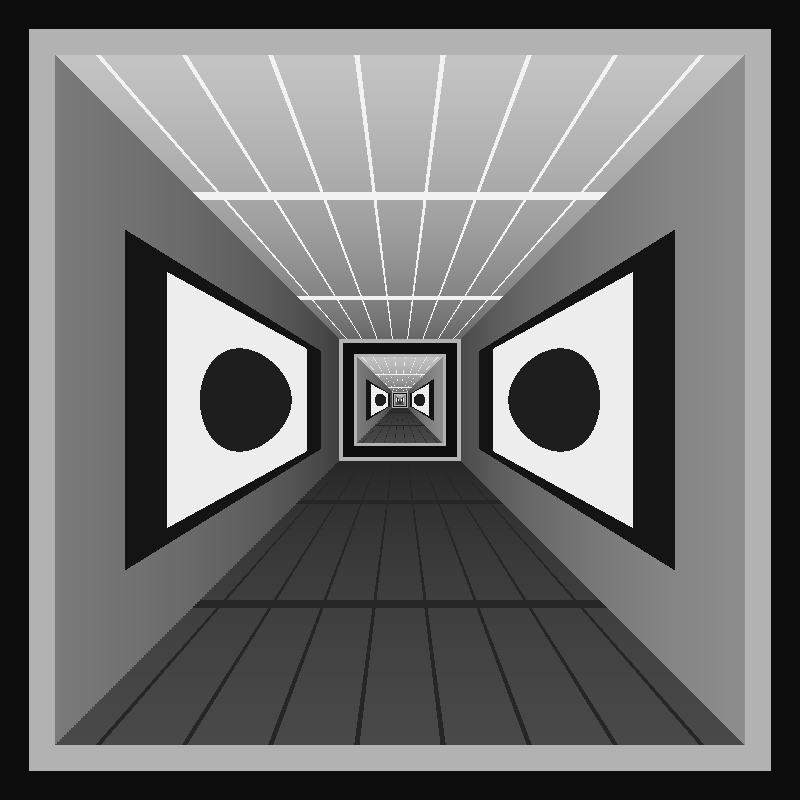
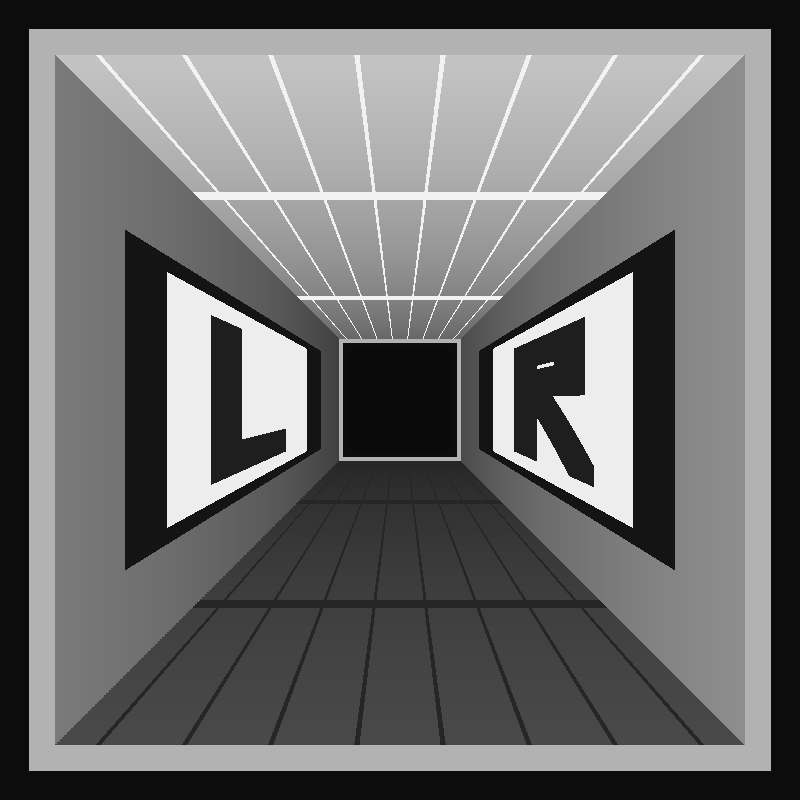
Starter image: L/R letters on walls, blank (black) recursion center
Replace the wall circles with big "L" (left) and "R" (right) letters. Leave the
self-similarity rectangle (rho < 1/q) blank/black instead of drawing nested
copies, demonstrating that the renderer synthesizes the recursion by folding the
outer ring -- the source need not be pre-drosted, only self-similar at the ring
border.

Changed region(s): [[0.25, 0.375, 0.375, 0.625], [0.625, 0.4062, 0.75, 0.625], [0.4375, 0.4375, 0.5625, 0.5625]]

diff --git a/make_selfsimilar.py b/make_selfsimilar.py
@@ -52,20 +52,31 @@ seam_u = (((u) % (1/3)) < 0.02)
 img[floor & (tile_s | seam_u)] = 0.95
 img[ceil  & (tile_s | seam_u)] = 0.15
 
-# ---- framed pictures on the side walls ----
-def wall_pictures(mask):
+# ---- framed pictures on the side walls, each with a big "L" / "R" letter ----
+def letter_mask(L, X, Y):                 # X right, Y up; strokes ~0.4 thick
+    vbar = (X > -0.55) & (X < -0.15) & (Y > -0.9) & (Y < 0.9)
+    if L == 'L':
+        hbar = (Y > -0.9) & (Y < -0.5) & (X > -0.55) & (X < 0.55)
+        return vbar | hbar
+    top = (Y > 0.5) & (Y < 0.9) & (X > -0.55) & (X < 0.4)         # R: bowl top
+    rsd = (X > 0.1) & (X < 0.5) & (Y > 0.05) & (Y < 0.9)          #    bowl side
+    mid = (Y > 0.05) & (Y < 0.45) & (X > -0.55) & (X < 0.5)       #    bowl bottom
+    leg = (np.abs((Y - 0.05) + 1.4 * (X + 0.15)) < 0.32) \
+          & (X > -0.2) & (X < 0.6) & (Y > -0.9) & (Y < 0.1)       #    diagonal leg
+    return vbar | top | rsd | mid | leg
+
+def wall_pictures(mask, L, xdir):
     inb = mask & (np.abs(s) < 0.62) & (u > 0.22) & (u < 0.82)
     frame = inb & ((np.abs(s) > 0.55) | (u < 0.30) | (u > 0.74))
     mat   = inb & ~frame
     img[mat] = 0.93
     img[frame] = 0.08
-    # a simple silhouette inside the mat (a filled circle "artwork")
-    cs = s / 0.5
-    cu = (u - 0.52) / 0.22
-    art = mat & ((cs*cs + cu*cu) < 0.45)
-    img[art] = 0.12
-wall_pictures(left)
-wall_pictures(right)
+    # letter coords: depth (u) is the picture's horizontal, screen (s) its vertical
+    LX = xdir * (u - 0.52) / 0.22
+    LY = -s / 0.5
+    img[mat & letter_mask(L, LX, LY)] = 0.12
+wall_pictures(left,  'L', -1)
+wall_pictures(right, 'R', +1)
 
 # ---- nested archway: a thick dark frame at each segment boundary ----
 arch = (u < 0.06) | (u > 0.965)
@@ -73,6 +84,12 @@ img[arch] = 0.05
 # a lighter inner lip just inside the arch for a 3-D molding feel
 lip = ((u >= 0.06) & (u < 0.10)) | ((u <= 0.965) & (u > 0.93))
 img[lip] = 0.70
+
+# ---- the recursion center is left BLANK on purpose ----
+# Everything inside the self-similarity rectangle (rho < 1/q) is never sampled by
+# the renderer: it folds the outer ring inward to synthesize the recursion. So we
+# just paint it black here to show the source does NOT need to be pre-drosted.
+img[rho < 1.0 / q] = 0.04
 
 g = np.clip(img, 0, 1)
 rgb = (np.dstack([g, g, g]) * 255).astype(np.uint8)